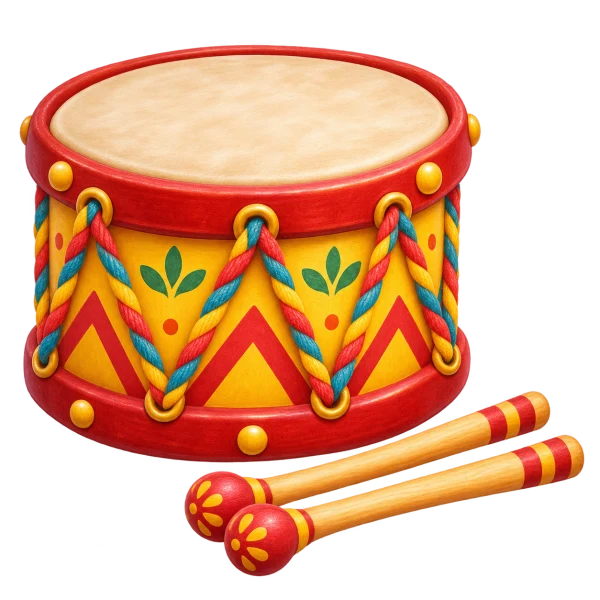
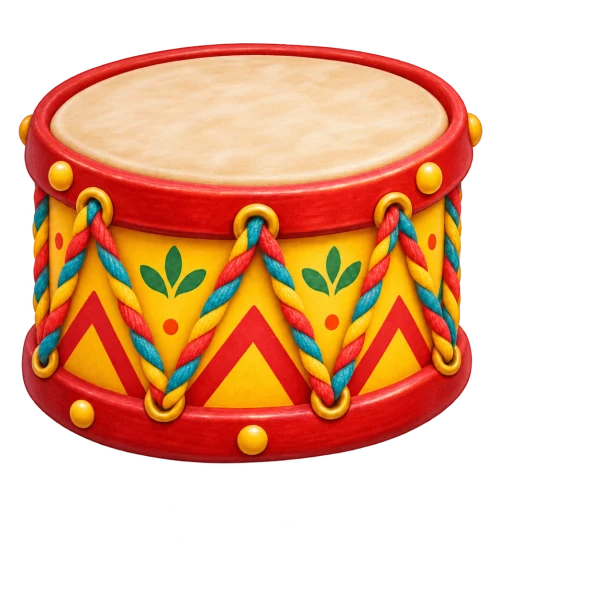
Animate bell ringing and instrument strike cursors

diff --git a/src/components/MusicGardenInstruments.jsx b/src/components/MusicGardenInstruments.jsx
@@ -1,3 +1,5 @@
+import { useEffect, useRef, useState } from 'react';
+import { createPortal } from 'react-dom';
 const COLOURS = ['#ef6a62','#f3a34b','#f6cd50','#86bf67','#58b7ae','#69a7d7','#a781cd'];
 const NOTES = [0,2,4,5,7,9,11];
 export function InstrumentArt({ kind }) {
@@ -10,16 +12,109 @@ export function InstrumentArt({ kind }) {
   </svg>;
 }
 export default function GardenInstrument({ kind, disabled, lit, onPlay }) {
-  if (kind==='piano' || kind==='xylophone') return <div className={`garden-key-instrument garden-${kind}`} role="group" aria-label={kind==='piano'?'Piano':'Xylophone'}>
-    <div className="garden-instrument-body" aria-hidden="true">{kind==='piano'?'✿':''}</div>
-    <div className="garden-keyboard">{NOTES.map((pitch,i)=><button key={pitch} type="button" className={`garden-note ${lit===`${kind}-${pitch}`?'is-struck':''}`} style={{'--bar-colour':COLOURS[i],'--bar-order':i}}
-      disabled={disabled} aria-label={`Play ${kind} ${['C','D','E','F','G','A','B'][i]}`} onPointerDown={event=>{if(event.button===0){event.preventDefault();onPlay(kind,pitch,`${kind}-${pitch}`);}}}
-      onClick={event=>{if(event.detail===0)onPlay(kind,pitch,`${kind}-${pitch}`);}} />)}
-      {kind==='piano' && [0,1,3,4,5].map((i)=><button type="button" key={i} className={`garden-black-note ${lit===`piano-${NOTES[i]+1}`?'is-struck':''}`} style={{left:`${(i+1)/7*100}%`}} disabled={disabled}
-        aria-label={`Play piano ${['C sharp','D sharp','','F sharp','G sharp','A sharp'][i]}`} onPointerDown={event=>{if(event.button===0){event.preventDefault();onPlay('piano',NOTES[i]+1,`piano-${NOTES[i]+1}`);}}} onClick={event=>{if(event.detail===0)onPlay('piano',NOTES[i]+1,`piano-${NOTES[i]+1}`);}} />)}
-    </div>
-    {kind==='xylophone' && <div className="garden-mallets" aria-hidden="true"><i /><i /></div>}
-  </div>;
-  return <button type="button" className={`garden-loose-instrument garden-${kind} ${lit===kind?'is-struck':''}`} disabled={disabled} aria-label={`Play ${kind}`}
-    onPointerDown={event=>{if(event.button===0){event.preventDefault();onPlay(kind);}}} onClick={event=>{if(event.detail===0)onPlay(kind);}}><InstrumentArt kind={kind} /></button>;
+  const host = useRef(null);
+  const [tool, setTool] = useState(null);
+  const activePointer = useRef(null);
+  const hovering = useRef(false);
+  const hideTimer = useRef(null);
+  const sequence = useRef(0);
+  const usesTool = kind === 'drum' || kind === 'xylophone';
+  function showTool(x, y, strike = false) {
+    if (!usesTool || disabled) return;
+    window.clearTimeout(hideTimer.current);
+    if (strike) sequence.current++;
+    setTool(current => ({ x, y, strike: strike || Boolean(current?.strike), sequence: sequence.current }));
+  }
+  function hideSoon() {
+    window.clearTimeout(hideTimer.current);
+    hideTimer.current = window.setTimeout(() => {
+      if (!hovering.current && !activePointer.current) setTool(null);
+    }, 360);
+  }
+  function hit(pitch = 0, key = kind, point) {
+    const button = host.current?.querySelector(`[data-music-pitch="${pitch}"]`) || host.current;
+    const rect = button?.getBoundingClientRect();
+    if (rect) showTool(point?.x ?? rect.left + rect.width / 2, point?.y ?? rect.top + rect.height * (kind === 'drum' ? .2 : .5), true);
+    if (kind === 'bell') shakeBell(host.current);
+    onPlay(kind, pitch, key);
+    hideSoon();
+  }
+  function down(event, pitch = 0, key = kind) {
+    if (disabled || event.button !== 0) return;
+    event.preventDefault();
+    activePointer.current = { id: event.pointerId, pitch };
+    if (usesTool) event.currentTarget.setPointerCapture?.(event.pointerId);
+    hit(pitch, key, { x: event.clientX, y: event.clientY });
+  }
+  function move(event) {
+    if (disabled) return;
+    showTool(event.clientX, event.clientY);
+    const pointer = activePointer.current;
+    if (kind !== 'xylophone' || !pointer || pointer.id !== event.pointerId) return;
+    const target = document.elementFromPoint(event.clientX, event.clientY)?.closest('[data-music-pitch]');
+    if (!target || !host.current?.contains(target)) return;
+    const pitch = Number(target.dataset.musicPitch);
+    if (pitch !== pointer.pitch) {
+      pointer.pitch = pitch;
+      hit(pitch, `${kind}-${pitch}`, { x: event.clientX, y: event.clientY });
+    }
+  }
+  function release(event) {
+    if (activePointer.current?.id === event.pointerId) activePointer.current = null;
+    const rect = host.current?.getBoundingClientRect();
+    hovering.current = event.pointerType === 'mouse' && Boolean(rect && event.clientX >= rect.left && event.clientX <= rect.right && event.clientY >= rect.top && event.clientY <= rect.bottom);
+    if (event.pointerType === 'mouse' && !hovering.current) setTool(null);
+    else hideSoon();
+  }
+  const pointerProps = {
+    onPointerMove: move,
+    onPointerEnter: event => { if (event.pointerType === 'mouse') { hovering.current = true; showTool(event.clientX, event.clientY); } },
+    onPointerLeave: () => { hovering.current = false; if (!activePointer.current) setTool(null); },
+    onPointerUp: release,
+    onLostPointerCapture: release,
+    onPointerCancel: event => { activePointer.current = null; hovering.current = false; release(event); setTool(null); },
+  };
+  useEffect(() => () => { window.clearTimeout(hideTimer.current); }, []);
+  useEffect(() => {
+    if (!lit || (lit !== kind && !lit.startsWith(`${kind}-`))) return undefined;
+    if (kind === 'bell') { shakeBell(host.current); return undefined; }
+    if (!usesTool) return undefined;
+    const frame = requestAnimationFrame(() => {
+      if (activePointer.current || hovering.current) return;
+      const pitch = Number(lit.split('-')[1] || 0);
+      const element = host.current?.querySelector(`[data-music-pitch="${pitch}"]`) || host.current;
+      const rect = element?.getBoundingClientRect();
+      if (!rect) return;
+      sequence.current++;
+      setTool({ x: rect.left + rect.width / 2, y: rect.top + rect.height * (kind === 'drum' ? .2 : .5), strike: true, sequence: sequence.current });
+      window.clearTimeout(hideTimer.current);
+      hideTimer.current = window.setTimeout(() => setTool(null), 360);
+    });
+    return () => cancelAnimationFrame(frame);
+  }, [kind, lit, usesTool]);
+  const cursor = tool && usesTool ? createPortal(<div className="music-tool-layer" aria-hidden="true"><div className={`music-strike-tool tool-${kind}`} style={{ left: tool.x, top: tool.y }} aria-hidden="true">
+    <svg key={tool.sequence} className={tool.strike ? 'is-hitting' : ''} viewBox="0 0 120 130">
+      <g className="strike-stick-one"><path d="M20 23 78 115" stroke="#946035" strokeWidth="11" strokeLinecap="round" /><path d="M18 20 75 110" stroke="#e1b16c" strokeWidth="6" strokeLinecap="round" />{kind === 'xylophone' ? <circle cx="18" cy="18" r="14" fill="#e9695c" stroke="#b84542" strokeWidth="3" /> : <><ellipse cx="18" cy="18" rx="10" ry="16" fill="#f0c47a" stroke="#ad7542" strokeWidth="3" /><path d="m62 90 10 15" stroke="#cf544a" strokeWidth="7" /></>}</g>
+      <g className="strike-stick-two"><path d="M47 14 106 106" stroke="#946035" strokeWidth="10" strokeLinecap="round" /><path d="M47 14 104 102" stroke="#e1b16c" strokeWidth="6" strokeLinecap="round" />{kind === 'xylophone' ? <circle cx="45" cy="10" r="13" fill="#f1bd52" stroke="#c88f38" strokeWidth="3" /> : <ellipse cx="45" cy="10" rx="9" ry="15" fill="#f0c47a" stroke="#ad7542" strokeWidth="3" />}</g>
+    </svg>
+  </div></div>, document.body) : null;
+  if (kind === 'piano' || kind === 'xylophone') return <>
+    <div ref={host} className={`garden-key-instrument garden-${kind} ${usesTool && !disabled ? 'has-strike-cursor' : ''}`} role="group" aria-label={kind === 'piano' ? 'Piano' : 'Xylophone'} {...pointerProps}>
+      <div className="garden-instrument-body" aria-hidden="true">{kind === 'piano' ? '✿' : ''}</div>
+      <div className="garden-keyboard">{NOTES.map((pitch, i) => <button key={pitch} type="button" data-music-pitch={pitch} className={`garden-note ${lit === `${kind}-${pitch}` ? 'is-struck' : ''}`} style={{ '--bar-colour': COLOURS[i], '--bar-order': i }}
+        disabled={disabled} aria-label={`Play ${kind} ${['C', 'D', 'E', 'F', 'G', 'A', 'B'][i]}`} onPointerDown={event => down(event, pitch, `${kind}-${pitch}`)}
+        onClick={event => { if (event.detail === 0) hit(pitch, `${kind}-${pitch}`); }} />)}
+        {kind === 'piano' && [0, 1, 3, 4, 5].map(i => <button type="button" data-music-pitch={NOTES[i] + 1} key={i} className={`garden-black-note ${lit === `piano-${NOTES[i] + 1}` ? 'is-struck' : ''}`} style={{ left: `${(i + 1) / 7 * 100}%` }} disabled={disabled}
+          aria-label={`Play piano ${['C sharp', 'D sharp', '', 'F sharp', 'G sharp', 'A sharp'][i]}`} onPointerDown={event => down(event, NOTES[i] + 1, `piano-${NOTES[i] + 1}`)} onClick={event => { if (event.detail === 0) hit(NOTES[i] + 1, `piano-${NOTES[i] + 1}`); }} />)}
+      </div>
+    </div>{cursor}
+  </>;
+  return <><button ref={host} type="button" className={`garden-loose-instrument garden-${kind} ${usesTool && !disabled ? 'has-strike-cursor' : ''} ${lit === kind ? 'is-struck' : ''}`} disabled={disabled} aria-label={`Play ${kind}`}
+    {...pointerProps} onPointerDown={event => down(event)} onClick={event => { if (event.detail === 0) hit(); }}><InstrumentArt kind={kind} /></button>{cursor}</>;
+}
+function shakeBell(button) {
+  const image = button?.querySelector('img');
+  if (!image || !image.animate || window.matchMedia('(prefers-reduced-motion: reduce)').matches) return;
+  image.getAnimations().forEach(animation => animation.cancel());
+  image.animate([{ transform: 'rotate(0deg)' }, { transform: 'rotate(-19deg)' }, { transform: 'rotate(17deg)' }, { transform: 'rotate(-12deg)' }, { transform: 'rotate(9deg)' }, { transform: 'rotate(0deg)' }], { duration: 550, easing: 'ease-in-out' });
 }

diff --git a/src/components/MusicGarden.css b/src/components/MusicGarden.css
@@ -12,7 +12,7 @@
 .garden-loose-instrument { display: block; width: 100%; max-width: 320px; margin: auto; padding: 0; border: 0; background: none; cursor: pointer; touch-action: none; -webkit-tap-highlight-color: transparent; }
 .garden-loose-instrument > :is(svg,img) { display: block; width: 100%; max-height: 30dvh; object-fit: contain; filter: drop-shadow(0 7px 3px #52673533); pointer-events: none; }
 .garden-loose-instrument:disabled { cursor: default; opacity: 1; }
-.garden-loose-instrument.is-struck > svg { animation: garden-hit .22s ease-out; filter: drop-shadow(0 0 10px #fff6a0); }
+.garden-loose-instrument.is-struck > :is(svg,img) { animation: garden-hit .22s ease-out; filter: drop-shadow(0 0 10px #fff6a0); }
 .garden-key-instrument { position: relative; width: 100%; max-width: 510px; margin: auto; box-sizing: border-box; padding: 28px 14px 20px; background: #cb6550; border-radius: 45% 45% 10% 10% / 16% 16% 10% 10%; box-shadow: 0 12px 0 #ad4a3c, 0 20px 12px #46622b33; }
 .garden-instrument-body { height: 28px; color: #ffe8a1; font-size: 2rem; line-height: 1; margin-bottom: 14px; }
 .garden-keyboard { position: relative; display: flex; height: clamp(95px,16dvh,160px); gap: 2px; }
@@ -25,10 +25,6 @@
 .garden-xylophone .garden-keyboard { align-items: center; gap: 5px; }
 .garden-xylophone .garden-note { height: calc(100% - var(--bar-order)*7%); background: var(--bar-colour); box-shadow: inset 0 -6px #0002; border-radius: 7px; }
 .garden-xylophone .garden-note::before { content: ''; position: absolute; top: 10%; left: calc(50% - 3px); width: 6px; height: 6px; background: #ffefc1; border-radius: 50%; }
-.garden-mallets { position: absolute; bottom: -38px; left: 22%; display: flex; gap: 24px; pointer-events: none; }
-.garden-mallets i { width: 8px; height: 65px; background: #b47d42; transform: rotate(25deg); border-radius: 5px; }
-.garden-mallets i::before { content: ''; display: block; width: 22px; height: 22px; margin-left: -7px; border-radius: 50%; background: #e36d5b; box-shadow: inset -4px -4px #0002; }
-.garden-mallets i:last-child { transform: rotate(-30deg); }
 .garden-copy-instrument { position: absolute; width: min(75vw,520px); left: 50%; top: 58%; transform: translate(-50%,-50%); }
 .garden-copy-instrument .garden-loose-instrument { max-width: 440px; }
 .garden-copy-instrument .garden-loose-instrument > :is(svg,img) { max-height: 48dvh; }
@@ -60,8 +56,6 @@
  .garden-instrument-body { height: 15px; font-size: 1.3rem; margin-bottom: 9px; }
  .garden-keyboard { height: clamp(64px,12dvh,115px); }
  .garden-xylophone .garden-keyboard { height: clamp(66px,10dvh,95px); }
- .garden-mallets { bottom: -25px; left: 30%; }
- .garden-mallets i { height: 45px; }
  .garden-loose-instrument > :is(svg,img) { max-height: 20dvh; }
  .garden-song-flowers { top: 13%; width: 88%; }
  .garden-dancers { top: 32%; height: 49%; width: 100%; }
@@ -72,8 +66,6 @@
  .garden-instrument-body { height: 0; margin-bottom: 9px; font-size: 1rem; }
  .garden-keyboard { height: 20dvh; }
  .garden-loose-instrument > :is(svg,img) { max-height: 27dvh; }
- .garden-mallets { bottom: -12px; }
- .garden-mallets i { height: 35px; }
  .garden-copy-instrument { top: 56%; left: 60%; width: min(55vw,440px); }
  .garden-listen-flower { top: calc(50% - 50px); left: 10%; width: 100px; }
  .garden-song-flowers { left: 15%; top: 25%; width: 18%; transform: none; display: grid; grid-template-columns: 1fr 1fr; gap: 8px; }
@@ -103,3 +95,14 @@
  .garden-selected-instrument .garden-loose-instrument > :is(svg,img) { max-height: 60dvh; }
  .garden-selected-instrument .garden-keyboard,.garden-selected-instrument .garden-xylophone .garden-keyboard { height: 35dvh; }
 }
+.garden-bell > img { transform-origin: 50% 20%; }
+.has-strike-cursor,.has-strike-cursor button { cursor: none; }
+.music-tool-layer { position: fixed; inset: 0; z-index: 12000; overflow: hidden; pointer-events: none; }
+.music-strike-tool { position: absolute; z-index: 12000; width: 94px; height: 102px; transform: translate(-14px,-14px); pointer-events: none; }
+.music-strike-tool svg { width: 100%; height: 100%; overflow: visible; filter: drop-shadow(0 3px 2px #5c482d44); }
+.music-strike-tool .strike-stick-one { transform-origin: 18px 18px; }
+.music-strike-tool .strike-stick-two { transform-origin: 45px 10px; }
+.music-strike-tool .is-hitting .strike-stick-one { animation: music-tool-strike .25s ease-out; }
+.music-strike-tool .is-hitting .strike-stick-two { animation: music-tool-strike .25s .08s ease-out; }
+@keyframes music-tool-strike { 0% { transform: translateY(-17px) rotate(-20deg); } 45% { transform: translateY(4px) rotate(4deg); } 100% { transform: none; } }
+@media (prefers-reduced-motion:reduce) { .music-strike-tool * { animation: none!important; } .has-strike-cursor,.has-strike-cursor button { cursor: pointer; } }
